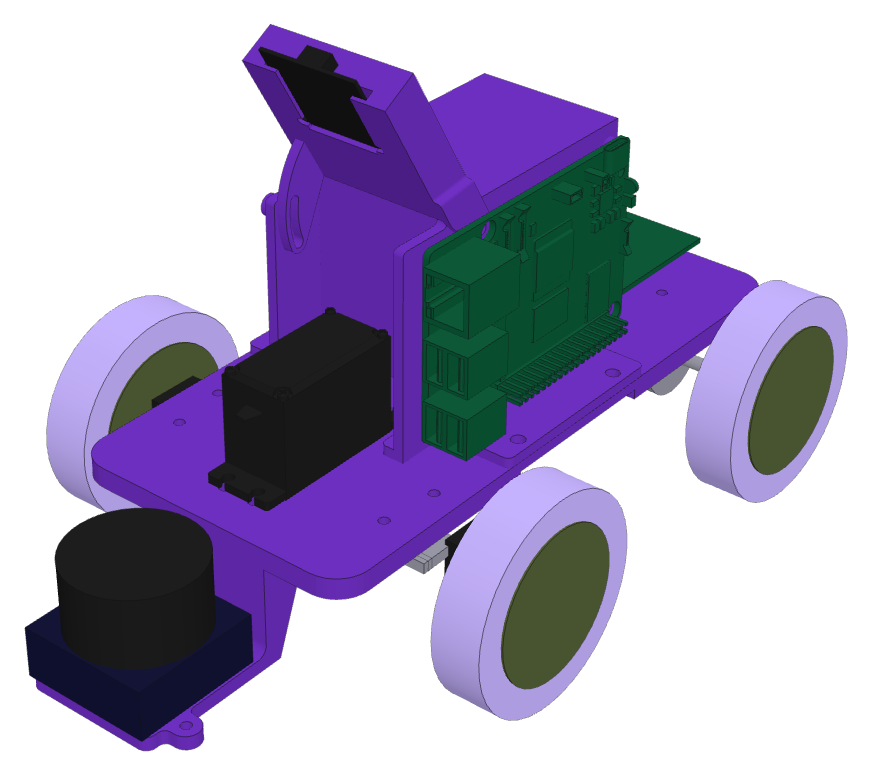
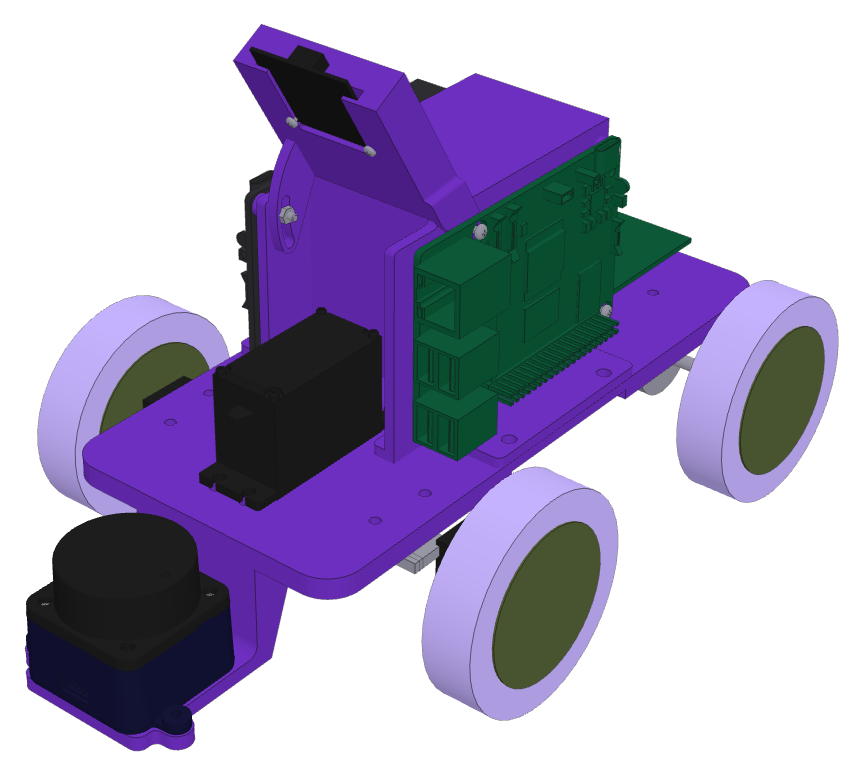
Learn, armar el coche: RRC Lite, real LD19 and every screw and nut from the team's Assembly3.stp (via SolidCraft), two batteries (motor on VM, Pi on the RRC Lite), TB6612 VCC is the 3.3 V logic supply

diff --git a/src/content/learn/steps/open-strategy/armar-y-conectar-el-coche.md b/src/content/learn/steps/open-strategy/armar-y-conectar-el-coche.md
@@ -10,7 +10,7 @@ compareFrom: "step-9"
 
 Antes de llevar tu nodo al coche real ([el capítulo siguiente](/learn/open-strategy/paso-10-el-coche-real/)) hay que armarlo y cablearlo. Estas instrucciones siguen el orden del README del equipo Robotek ([Robotek-WRO2026](https://github.com/strvaeq/Robotek-WRO2026), sección *Assembly Instructions*) y su diagrama de cables, con dibujos hechos a partir del modelo 3D del coche que usa la simulación: las mismas piezas (`robotek_description/meshes`, sacadas del `Assembly3.stp` del 20 y 21 de octubre de 2026) en el mismo sitio que en el URDF.
 
-> **Qué es exacto y qué es aproximado.** La placa base, la caja, el soporte y la cámara, el servo, la Raspberry Pi y la placa del driver son las piezas del modelo 3D, en su sitio. Las ruedas y el LiDAR salen de las medidas del URDF (`vehicle.py`). El motor, el eje y las piezas de la dirección **no están en el modelo**: los dibujé con formas simples donde los describe el README del equipo, así que su forma y su posición son aproximadas. Ante cualquier duda, manda el coche real y las fotos del equipo ([`v-photos`](https://github.com/strvaeq/Robotek-WRO2026/tree/main/v-photos)).
+> **Qué es exacto y qué es aproximado.** La placa base, la caja, el soporte y la cámara, el servo, la Raspberry Pi, la placa del driver, el LiDAR LD19, la placa RRC Lite y todos los tornillos y tuercas son las piezas del modelo 3D del equipo (`Assembly3.stp`, abierto en SolidCraft), en su sitio; en ese modelo la RRC Lite tiene la forma de una Raspberry Pi. Las ruedas salen de las medidas del URDF (`vehicle.py`). El motor, el eje y las piezas de la dirección **no están en el modelo**: los dibujé con formas simples donde los describe el README del equipo, así que su forma y su posición son aproximadas. Ante cualquier duda, manda el coche real y las fotos del equipo ([`v-photos`](https://github.com/strvaeq/Robotek-WRO2026/tree/main/v-photos)).
 
 ## Lo que necesitas
 
@@ -24,10 +24,14 @@ Antes de llevar tu nodo al coche real ([el capítulo siguiente](/learn/open-stra
 | Servo digital de 15 kg·cm | 1 | La dirección |
 | Motor de 25 mm con reductora | 1 | La tracción trasera |
 | Puente TB6612FNG | 1 | Mueve el motor desde los pines del Pi |
-| Batería Li-Po 2S 7,4 V, 5000 mAh | 1 | Toda la energía |
+| Batería para el motor | 1 | Solo el motor, por el TB6612 (VM) |
+| Batería para el Pi | 1 | La RRC Lite, que da 5 V al Pi y mueve el servo |
 | Anillo de 16 LED WS2812 | 1 | Luz para ver mejor los colores |
 | Protectores de rueda de maleta | 4 | Los neumáticos de las ruedas impresas |
 | Cables USB (3), USB-C (1), dupont hembra-hembra (unos 9) | | Las conexiones |
+| Tornillos M2×10 (7) y M2×14 (1), tuercas M2 (8) | | La Raspberry Pi y la RRC Lite a la caja |
+| Tornillos PA2×6 (4) | | El LiDAR |
+| Tornillos M1.6×16 (2) y tuercas M1.6 (2) | | La cámara a su soporte |
 
 Herramientas: destornilladores pequeños, llave para las tuercas del kit y, si vas a cambiar cables, un tester.
 
@@ -81,35 +85,42 @@ Herramientas: destornilladores pequeños, llave para las tuercas del kit y, si v
 
 <div class="lego-step">
 <div><div class="lego-num">7</div>
-<div class="lego-parts"><figure><img src="/learn/assembly/part-pi.png" alt="Raspberry Pi 5" loading="lazy"><figcaption><b>1x</b>Raspberry Pi 5</figcaption></figure></div></div>
-<img class="lego-view" src="/learn/assembly/step-7.png" alt="Paso 7: la Raspberry Pi entra de lado en la caja" loading="lazy">
-<p class="lego-note">La Raspberry Pi 5 va <b>de canto</b>, a un lado de la caja. Así montada, los ejes de la IMU de la placa no coinciden con los del coche: el capítulo siguiente explica cómo medirlos con <code>imu_axes</code>.</p>
+<div class="lego-parts"><figure><img src="/learn/assembly/part-pi.png" alt="Raspberry Pi 5" loading="lazy"><figcaption><b>1x</b>Raspberry Pi 5</figcaption></figure><figure><img src="/learn/assembly/part-m2x10.png" alt="tornillo M2×10" loading="lazy"><figcaption><b>4x</b>tornillo M2×10</figcaption></figure><figure><img src="/learn/assembly/part-nutM2.png" alt="tuerca M2" loading="lazy"><figcaption><b>4x</b>tuerca M2</figcaption></figure></div></div>
+<img class="lego-view" src="/learn/assembly/step-7.png" alt="Paso 7: la Raspberry Pi entra de lado en la caja con cuatro tornillos M2" loading="lazy">
+<p class="lego-note">La Raspberry Pi 5 va <b>de canto</b>, en el lado izquierdo de la caja: cuatro tornillos M2×10 desde fuera y sus tuercas por dentro. Así montada, los ejes de la IMU no coinciden con los del coche: el capítulo siguiente explica cómo medirlos con <code>imu_axes</code>.</p>
 </div>
 
 <div class="lego-step">
 <div><div class="lego-num">8</div>
-<div class="lego-parts"><figure><img src="/learn/assembly/part-lidar.png" alt="LiDAR LD19" loading="lazy"><figcaption><b>1x</b>LiDAR LD19</figcaption></figure></div></div>
-<img class="lego-view" src="/learn/assembly/step-8.png" alt="Paso 8: el LiDAR entra en la pestaña delantera" loading="lazy">
-<p class="lego-note">El LiDAR va delante, en la pestaña de la placa, con la vista despejada: mira 110° a cada lado. Su plano de medida queda a 30 mm del suelo y 128 mm por delante del centro del coche (<code>base_link</code>).</p>
+<div class="lego-parts"><figure><img src="/learn/assembly/part-rrc.png" alt="placa RRC Lite" loading="lazy"><figcaption><b>1x</b>placa RRC Lite</figcaption></figure><figure><img src="/learn/assembly/part-m2x10.png" alt="tornillo M2×10" loading="lazy"><figcaption><b>3x</b>tornillo M2×10</figcaption></figure><figure><img src="/learn/assembly/part-m2x14.png" alt="tornillo M2×14" loading="lazy"><figcaption><b>1x</b>tornillo M2×14</figcaption></figure><figure><img src="/learn/assembly/part-nutM2.png" alt="tuerca M2" loading="lazy"><figcaption><b>4x</b>tuerca M2</figcaption></figure></div></div>
+<img class="lego-view" src="/learn/assembly/step-8.png" alt="Paso 8: la RRC Lite entra de lado por la derecha de la caja con cuatro tornillos M2" loading="lazy">
+<p class="lego-note">La placa RRC Lite va de canto en el otro lado de la caja (el derecho), con tres tornillos M2×10, uno M2×14 y cuatro tuercas M2. Es la que lleva la IMU: si la cambias de lado, cambian los ejes.</p>
 </div>
 
 <div class="lego-step">
 <div><div class="lego-num">9</div>
-<div class="lego-parts"><figure><img src="/learn/assembly/part-camSupport.png" alt="soporte de la cámara" loading="lazy"><figcaption><b>1x</b>soporte de la cámara</figcaption></figure><figure><img src="/learn/assembly/part-camera.png" alt="cámara" loading="lazy"><figcaption><b>1x</b>cámara</figcaption></figure></div></div>
-<img class="lego-view" src="/learn/assembly/step-9.png" alt="Paso 9: el soporte baja detrás del LiDAR y la cámara encaja arriba" loading="lazy">
-<p class="lego-note">El soporte de la cámara va justo detrás del LiDAR y es más alto, para que la cámara vea por encima. Medido en el coche: la cámara queda a 144,6 mm del suelo, mirando unos 10° hacia abajo y 4,4° a la izquierda.</p>
+<div class="lego-parts"><figure><img src="/learn/assembly/part-lidar.png" alt="LiDAR LD19" loading="lazy"><figcaption><b>1x</b>LiDAR LD19</figcaption></figure><figure><img src="/learn/assembly/part-pa2x6.png" alt="tornillo PA2×6" loading="lazy"><figcaption><b>4x</b>tornillo PA2×6</figcaption></figure></div></div>
+<img class="lego-view" src="/learn/assembly/step-9.png" alt="Paso 9: el LiDAR baja a la pestaña delantera y cuatro tornillos suben desde abajo" loading="lazy">
+<p class="lego-note">El LiDAR va delante, en la pestaña de la placa, sujeto desde abajo con cuatro tornillos PA2×6 y con la vista despejada: mira 110° a cada lado. Su plano de medida queda a 30 mm del suelo y 128 mm por delante del centro del coche (<code>base_link</code>).</p>
+</div>
+
+<div class="lego-step">
+<div><div class="lego-num">10</div>
+<div class="lego-parts"><figure><img src="/learn/assembly/part-camSupport.png" alt="soporte de la cámara" loading="lazy"><figcaption><b>1x</b>soporte de la cámara</figcaption></figure><figure><img src="/learn/assembly/part-camera.png" alt="cámara" loading="lazy"><figcaption><b>1x</b>cámara</figcaption></figure><figure><img src="/learn/assembly/part-m16x16.png" alt="tornillo M1.6×16" loading="lazy"><figcaption><b>2x</b>tornillo M1.6×16</figcaption></figure><figure><img src="/learn/assembly/part-nutM16.png" alt="tuerca M1.6" loading="lazy"><figcaption><b>2x</b>tuerca M1.6</figcaption></figure></div></div>
+<img class="lego-view" src="/learn/assembly/step-10.png" alt="Paso 10: el soporte baja detrás del LiDAR, la cámara encaja arriba con dos tornillos M1.6" loading="lazy">
+<p class="lego-note">El soporte de la cámara va justo detrás del LiDAR y es más alto, para que la cámara vea por encima; la cámara se sujeta con dos tornillos M1.6×16 y sus tuercas. Medido en el coche: la cámara queda a 144,6 mm del suelo, mirando unos 10° hacia abajo y 4,4° a la izquierda.</p>
 </div>
 
 
 ## Bolsa 3: los cables
 
-Con todo montado, conecta los cables **con la batería desenchufada**. Los colores de los dibujos son los de los esquemas, no tienen que coincidir con los de tus cables; lo que importa es cada extremo.
+Con todo montado, conecta los cables **con las dos baterías desenchufadas**. El coche lleva dos: una solo para el motor y otra para la RRC Lite, que alimenta el Pi y el servo. Los colores de los dibujos son los de los esquemas, no tienen que coincidir con los de tus cables; lo que importa es cada extremo.
 
-<img class="lego-wiring" src="/learn/assembly/wiring-usb.svg" alt="Paso 10: cámara, LiDAR y placa RRC Lite por USB a la Raspberry Pi 5" loading="lazy">
+<img class="lego-wiring" src="/learn/assembly/wiring-usb.svg" alt="Paso 11: cámara, LiDAR y placa RRC Lite por USB a la Raspberry Pi 5" loading="lazy">
 
-<img class="lego-wiring" src="/learn/assembly/wiring-motor.svg" alt="Paso 11: el TB6612FNG a los pines GPIO 12, 5, 6 y 13 del Pi; el motor al TB6612; el servo a la RRC Lite" loading="lazy">
+<img class="lego-wiring" src="/learn/assembly/wiring-motor.svg" alt="Paso 12: el TB6612FNG a los pines GPIO 12, 5, 6 y 13 y al 3,3 V del Pi; el motor al TB6612; el servo a la RRC Lite" loading="lazy">
 
-<img class="lego-wiring" src="/learn/assembly/wiring-power.svg" alt="Paso 12: la batería a la RRC Lite y al TB6612; la RRC Lite da 5 V al Pi por USB-C; el anillo de LED al GPIO10" loading="lazy">
+<img class="lego-wiring" src="/learn/assembly/wiring-power.svg" alt="Paso 13: la batería del motor a la bornera VM del TB6612; la batería del Pi a la RRC Lite, que da 5 V al Pi por USB-C; el anillo de LED al GPIO10" loading="lazy">
 
 | Cable | De | A | Ojo con |
 |---|---|---|---|
@@ -121,29 +132,32 @@ Con todo montado, conecta los cables **con la batería desenchufada**. Los color
 | dupont | Pi GPIO12 (pin 32) | TB6612 PWMA | velocidad |
 | dupont | Pi GPIO5 (pin 29) y GPIO6 (pin 31) | TB6612 AIN1 y AIN2 | sentido |
 | dupont | Pi GPIO13 (pin 33) | TB6612 STBY | sin STBY en alto el motor no gira |
-| dupont | Pi 3,3 V y GND | TB6612 VCC y GND | la lógica del puente |
-| batería | Batería 2S | RRC Lite y VM del TB6612 | la placa se apaga bajo 6 V |
+| dupont | Pi 3,3 V (pin 1) y GND | TB6612 VCC y GND | VCC es la lógica: 3,3 V, nunca la batería (aguanta 5,5 V como máximo). Este GND une las masas de las dos baterías |
+| batería | Batería del motor | TB6612, bornera VM–GND | VM es la potencia del motor (2,5 a 13,5 V) |
+| batería | Batería del Pi | RRC Lite, entrada de batería | la placa se apaga bajo 6 V |
 | USB-C | RRC Lite (5 V, 5 A) | Pi, entrada USB-C | es la alimentación del Pi |
 | dupont | Pi 5 V, GND y GPIO10 (pin 19) | anillo de LED: 5 V, GND y DIN | brillo bajo: al 100 % reinició el Pi |
 
-## Paso 13: comprobar antes de rodar
+## Paso 14: comprobar antes de rodar
 
 <div class="lego-step">
-<div><div class="lego-num">13</div>
+<div><div class="lego-num">14</div>
 <div class="lego-parts"><figure><img src="/learn/assembly/final-back.png" alt="El coche armado, visto desde atrás" loading="lazy"><figcaption><b>1x</b>coche armado</figcaption></figure></div></div>
 <img class="lego-view" src="/learn/assembly/final.png" alt="El coche armado: placa, ruedas, servo, caja, Raspberry Pi, LiDAR y cámara" loading="lazy">
-<p class="lego-note">Con el coche en alto (las ruedas sin tocar el suelo), enchufa la batería y espera a que arranque el Pi. Comprueba, en este orden y como explica el <a href="/learn/open-strategy/paso-10-el-coche-real/">capítulo siguiente</a> (sección 3): que se ven los tres USB, la cámara, el LiDAR (unos 10 Hz), la IMU (unos 49 Hz), el centro y el signo de la dirección y, por último, el motor a poca velocidad.</p>
+<p class="lego-note">Con el coche en alto (las ruedas sin tocar el suelo), enchufa primero la batería del Pi y espera a que arranque; la del motor, al final. Comprueba, en este orden y como explica el <a href="/learn/open-strategy/paso-10-el-coche-real/">capítulo siguiente</a> (sección 3): que se ven los tres USB, la cámara, el LiDAR (unos 10 Hz), la IMU (unos 49 Hz), el centro y el signo de la dirección y, por último, el motor a poca velocidad.</p>
 </div>
 
 ## Si algo falla
 
-- **El motor no gira y el servo sí.** Casi siempre es STBY (GPIO13) o un dupont flojo en el TB6612.
+- **El motor no gira y el servo sí.** Casi siempre es STBY (GPIO13), un dupont flojo en el TB6612 o la batería del motor descargada o sin conectar a VM.
+- **El TB6612 se calienta sin motor.** Revisa que la batería del motor vaya a VM y no a VCC: VCC es solo la lógica, 3,3 V del Pi.
 - **El Pi se reinicia.** Revisa cada conector (al equipo le pasó con un cable flojo) y baja el brillo de los LED.
 - **Falta un dispositivo en `/dev/serial/by-id`.** Es el cable o el adaptador; los nombres no dependen del puerto.
 - **Las ruedas delanteras no vuelven al centro o rozan.** Revisa que las piezas móviles de la dirección giren libres y que la bieleta corta vaya al lado contrario del eje del servo.
 
 ## Resumen
 
-- Tres bolsas: el chasis (placa, dirección, motor, ruedas), la electrónica y los sensores (driver, caja, Pi, LiDAR, cámara) y los cables (USB, motor y servo, energía y luces).
-- Los sensores van por USB al Pi; el motor por el TB6612 a cuatro pines GPIO; el servo, a la RRC Lite; la batería, a la RRC Lite y al TB6612, y la RRC Lite alimenta el Pi.
-- Las piezas dibujadas salen del mismo modelo 3D que usa la simulación; el motor y la dirección, de la descripción del equipo.
+- Tres bolsas: el chasis (placa, dirección, motor, ruedas), la electrónica y los sensores (driver, caja, Pi, RRC Lite, LiDAR, cámara, con sus tornillos) y los cables (USB, motor y servo, energía y luces).
+- Los sensores van por USB al Pi; el motor por el TB6612 a cuatro pines GPIO (y su lógica, VCC, al 3,3 V del Pi); el servo, a la RRC Lite.
+- Dos baterías: la del motor a VM del TB6612 y la del Pi a la RRC Lite, que da 5 V al Pi por USB-C; las masas se unen por el GND del TB6612.
+- Las piezas dibujadas salen del modelo 3D del equipo (el mismo de la simulación, más los tornillos, el LD19 y la RRC Lite de SolidCraft); el motor y la dirección, de la descripción del equipo.
